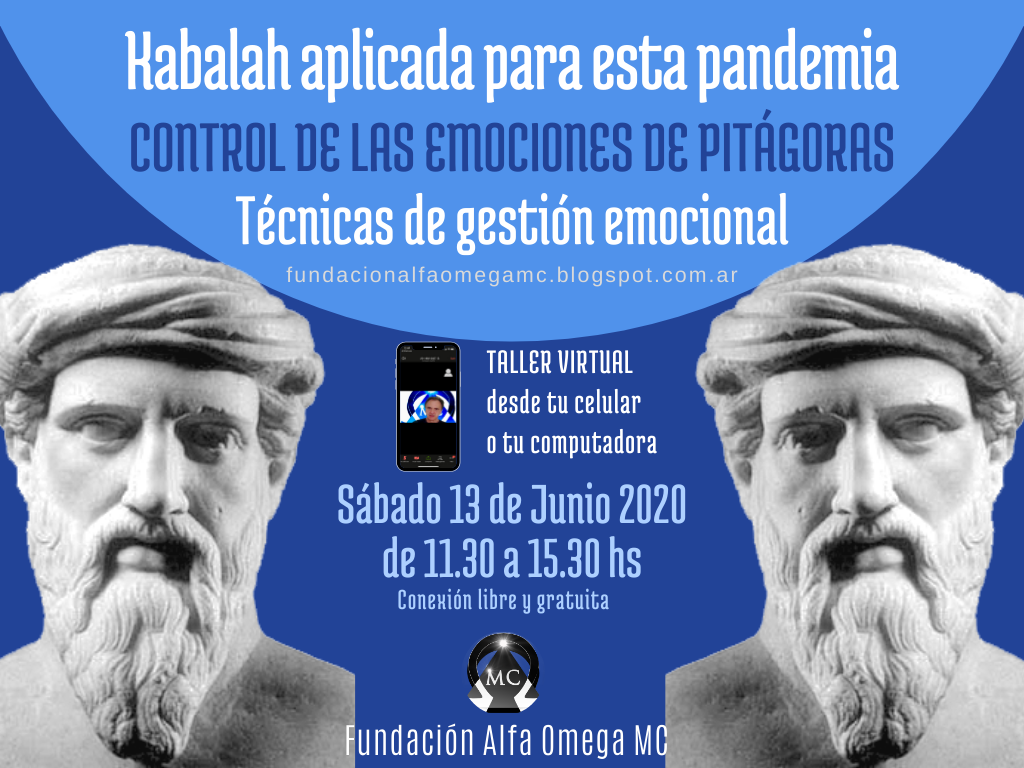
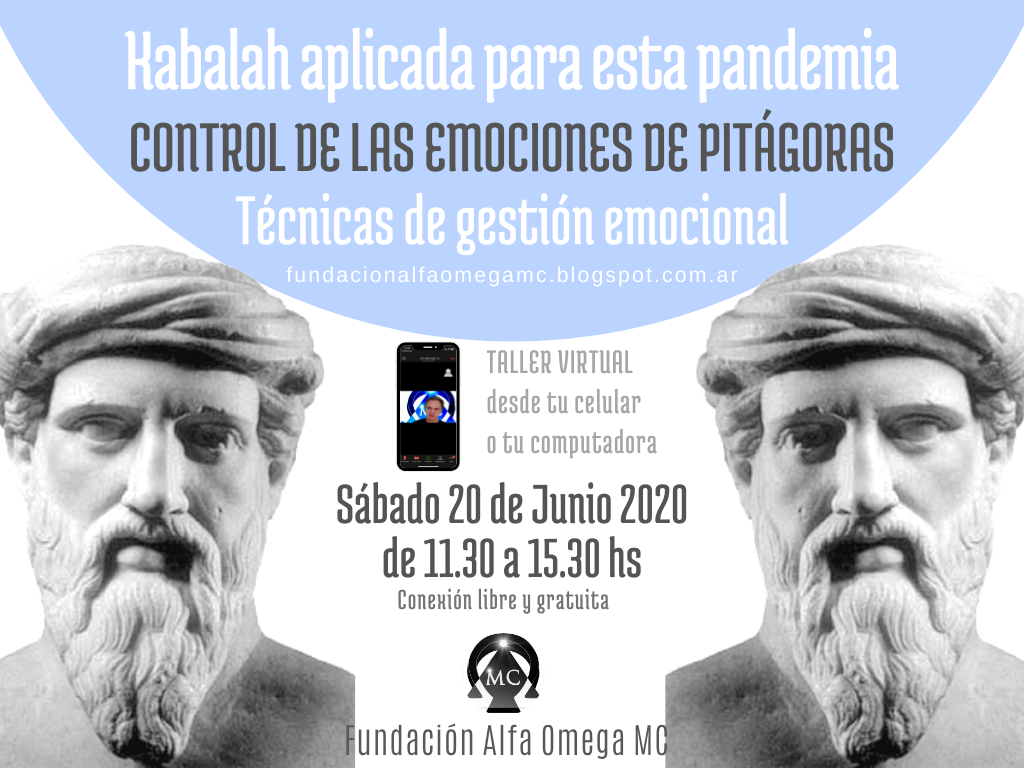
AL-OM

diff --git a/cursos.html b/cursos.html
@@ -89,11 +89,29 @@
 </div>
 
 <section id="cursos">
-<h2>Cursos</h2>
+<h2>Últimos cursos</h2>
 <div class="box-container">
-   <div class="box-item">
+  <div class="box-item">
     <div class="flip-box">
       <div class="flip-box-front text-center" style="background-image: url('fotos/cursos/0.png');">
+          <div class="inner color-white">
+            <h3 class="flip-box-header"></h3>
+            <p></p>
+            <img src="fotos/flecha.png" alt="Flecha" class="flip-box-img">
+          </div>
+        </div>
+        <div class="flip-box-back text-center">
+          <div class="inner color-white">
+            <h3 class="flip-box-header">Técnicas de Gestión emocional de Pitágoras</h3>
+            <p>Sábado 20 de junio 2020 de 11 a 15:30 hs</p>
+            <a href="contacto.html" target="_blank"><button class="flip-box-button">MÁS INFO</button></a>
+          </div>
+        </div>
+      </div>
+    </div>
+   <div class="box-item">
+    <div class="flip-box">
+      <div class="flip-box-front text-center" style="background-image: url('fotos/cursos/1.png');">
           <div class="inner color-white">
             <h3 class="flip-box-header"></h3>
             <p></p>
@@ -111,7 +129,7 @@
     </div>
   <div class="box-item">
     <div class="flip-box">
-      <div class="flip-box-front text-center" style="background-image: url('fotos/cursos/1.png');">
+      <div class="flip-box-front text-center" style="background-image: url('fotos/cursos/2.png');">
         <div class="inner color-white">
           <h3 class="flip-box-header"></h3>
           <p></p>
@@ -129,7 +147,7 @@
   </div>
   <div class="box-item">
     <div class="flip-box">
-      <div class="flip-box-front text-center" style="background-image: url('fotos/cursos/2.png');">
+      <div class="flip-box-front text-center" style="background-image: url('fotos/cursos/3.png');">
           <div class="inner color-white">
             <h3 class="flip-box-header"></h3>
             <p></p>
@@ -145,9 +163,28 @@
         </div>
       </div>
     </div>
+     <div class="box-item">
+    <div class="flip-box">
+      <div class="flip-box-front text-center" style="background-image: url('fotos/cursos/crisis.png');">
+          <div class="inner color-white">
+            <h3 class="flip-box-header"></h3>
+            <p></p>
+            <img src="fotos/flecha.png" alt="Flecha" class="flip-box-img">
+          </div>
+        </div>
+        <div class="flip-box-back text-center">
+          <div class="inner color-white">
+            <h3 class="flip-box-header">La crisis como herramienta de mejoramiento personal</h3>
+            <p></p>
+            <p>Sábado por medio de 18 a 20 hs. Actividad arancelada.</p>
+            <a href="contacto.html" target="_blank"><button class="flip-box-button">MÁS INFO</button></a>
+          </div>
+        </div>
+      </div>
+    </div>
     <div class="box-item">
     <div class="flip-box">
-      <div class="flip-box-front text-center" style="background-image: url('fotos/cursos/3.png');">
+      <div class="flip-box-front text-center" style="background-image: url('fotos/cursos/4.png');">
           <div class="inner color-white">
             <h3 class="flip-box-header"></h3>
             <p></p>

diff --git a/actividades.html b/actividades.html
@@ -84,8 +84,8 @@
       </div>
       <div class="flip-box-back text-center" style="background-image: url('fotos/ag1.jpg');">
         <div class="inner color-white">
-          <h3 class="flip-box-header">Las profesoras Gabriela y Bárbara dan clases de Danza Teatro</h3>
-          <p>Lunes de 20 a 21.30 hs</p>
+          <h3 class="flip-box-header">Danza Teatro</h3>
+          <p>Las profesoras Gabriela G. y Bárbara G. dan clases los lunes de 20 a 21.30 hs</p>
           <a href="contacto.html" target="_blank"><button class="flip-box-button">MÁS INFO</button></a>
         </div>
       </div>
@@ -102,8 +102,8 @@
       </div>
       <div class="flip-box-back text-center" style="background-image: url('fotos/taichi2.jpg');">
         <div class="inner color-white">
-          <h3 class="flip-box-header">La profesora Lili R. da clases de Tai-Chi y Chi Kung</h3>
-          <p>Miércoles de 19 a 20 hs y Sábados de 16 a 17.30 hs</p>
+          <h3 class="flip-box-header">TAI-CHI y CHI KUNG</h3>
+          <p>La profesora Lili R. da clases los miércoles de 19 a 20 hs y Sábados de 16 a 17.30 hs</p>
           <a href="contacto.html" target="_blank"><button class="flip-box-button">MÁS INFO</button></a>
         </div>
       </div>
@@ -111,14 +111,14 @@
   </div>
   <div class="box-item">
     <div class="flip-box">
-      <div class="flip-box-front text-center filter-" style="background-image: url('fotos/alom2.jpeg');">
+      <div class="flip-box-front text-center filter-" style="background-image: url('fotos/alom1.jpg');">
         <div class="inner color-white">
           <h3 class="flip-box-header">AL-OM</h3>
           <p>Disciplina en movimiento que combina el Wing Chun, Sipalki, Karate y Aikidō</p>
           <img src="fotos/flecha.png" alt="Flecha" class="flip-box-img">
         </div>
       </div>
-      <div class="flip-box-back text-center" style="background-image: url('fotos/alom1.jpeg');">
+      <div class="flip-box-back text-center" style="background-image: url('fotos/alom2.jpeg');">
         <div class="inner color-white">
           <h3 class="flip-box-header">AL-OM</h3>
           <p>Domingos de 17.30 a 18.30 hs</p>
@@ -157,7 +157,7 @@
       </div>
       <div class="flip-box-back text-center" style="background-image: url('fotos/musica1.jpg');">
         <div class="inner color-white">
-          <h3 class="flip-box-header">La profesora Jenny V.</h3>
+          <h3 class="flip-box-header">Dictado por la profesora Jenny V.</h3>
           <p>Sábados de 9 a 10 hs</p>
           <div class="facebook-responsive">
     		<iframe src="https://www.facebook.com/plugins/video.php?href=https%3A%2F%2Fwww.facebook.com%2Falfa.omegamc%2Fvideos%2F313601026162662%2F&show_text=true&width=734&height=477&appId" width="734" height="477" style="border:none;overflow:hidden" scrolling="no" frameborder="0" allowTransparency="true" allow="encrypted-media" allowFullScreen="true"></iframe>

diff --git a/style.css b/style.css
@@ -571,6 +571,7 @@ p {
 }
 
 #cursos h2 {
+  padding-top: 17px;
   font-family: "Product Sans";
   text-shadow: 0 0 1px #0050ff;
   font-size: 8vmin;
